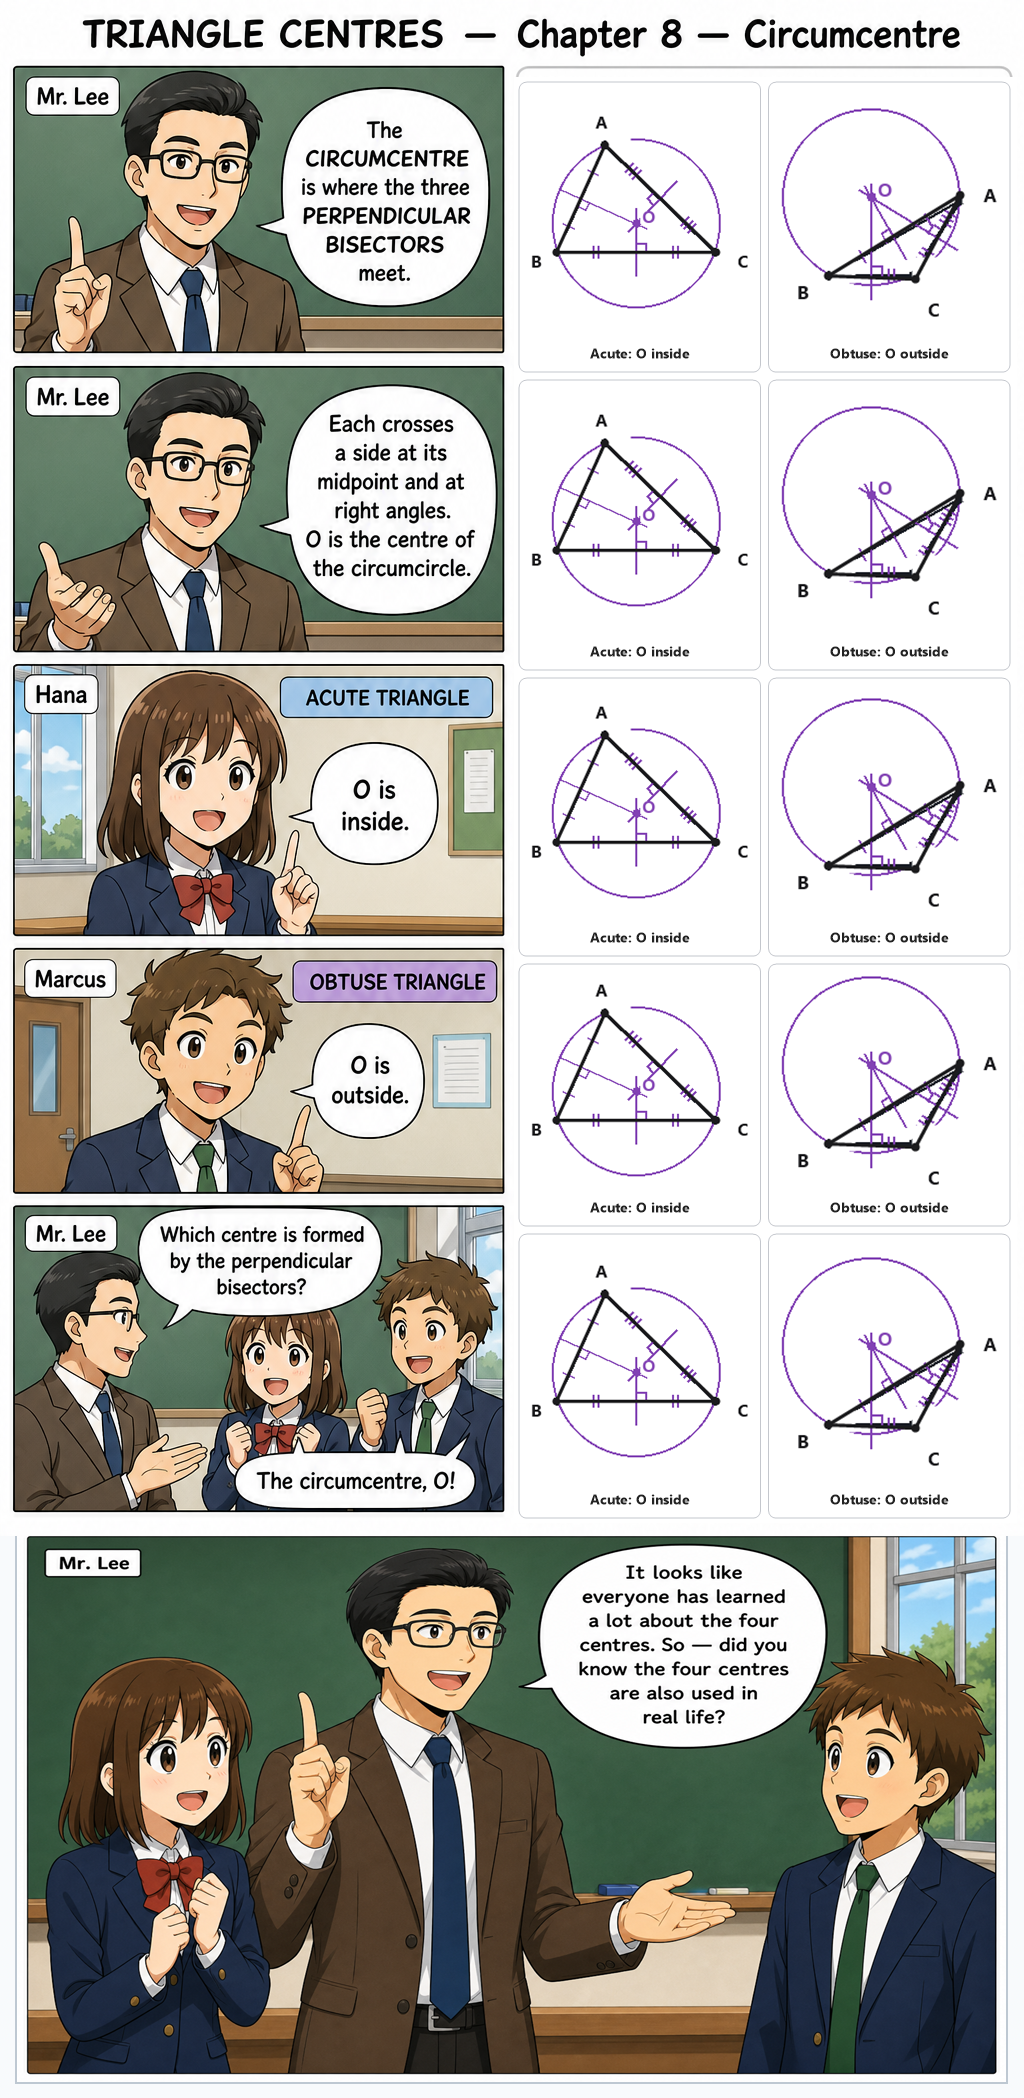
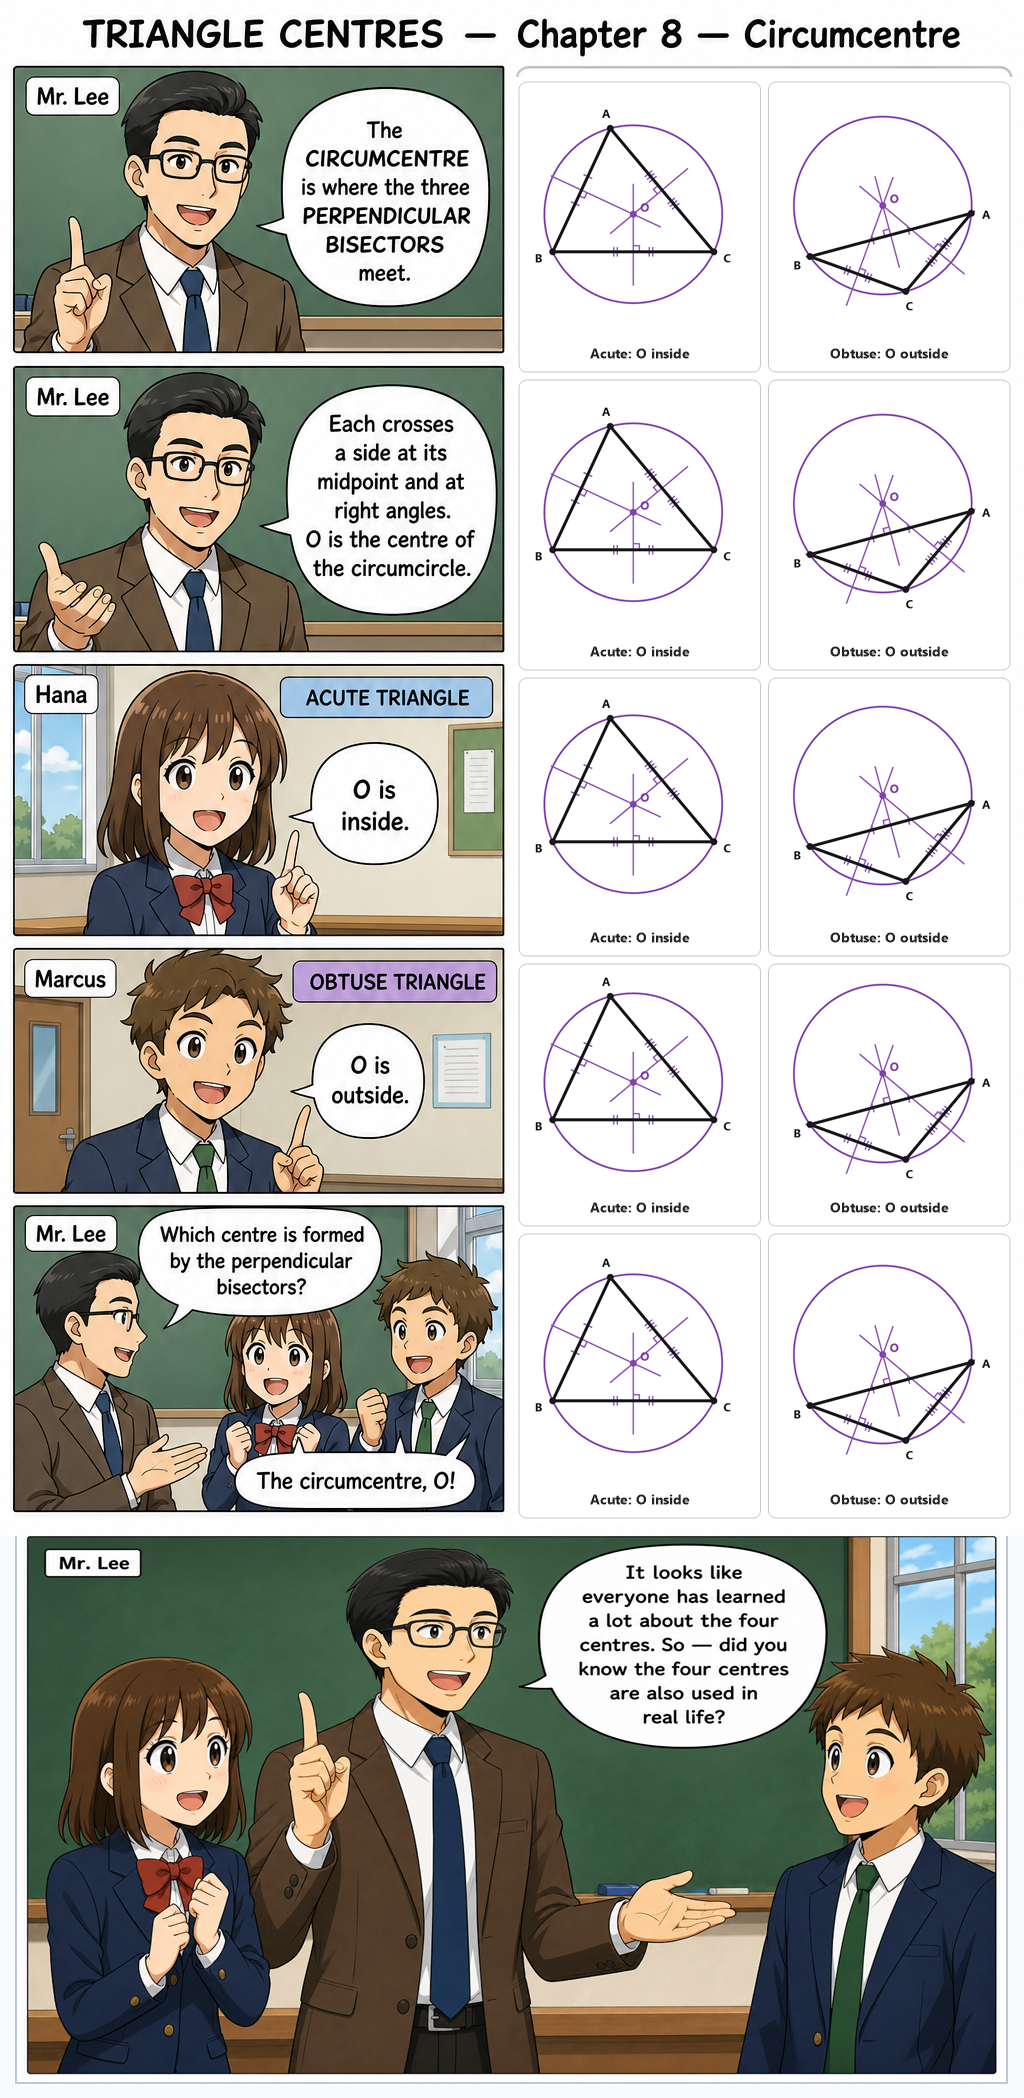
Regenerate complete circumcentre comparison diagrams.

diff --git a/topics/triangle_centres/comics-manifest.js b/topics/triangle_centres/comics-manifest.js
@@ -44,7 +44,7 @@ window.JM28_COMICS = {
       {
         id: "ch8",
         title: "Chapter 8 — Circumcentre",
-        file: "triangle-centres-chapter-8-circumcentre-color.png?v=20260906-labels-outside",
+        file: "triangle-centres-chapter-8-circumcentre-color.png?v=20260906-regenerated",
       },
       {
         id: "quest1",
